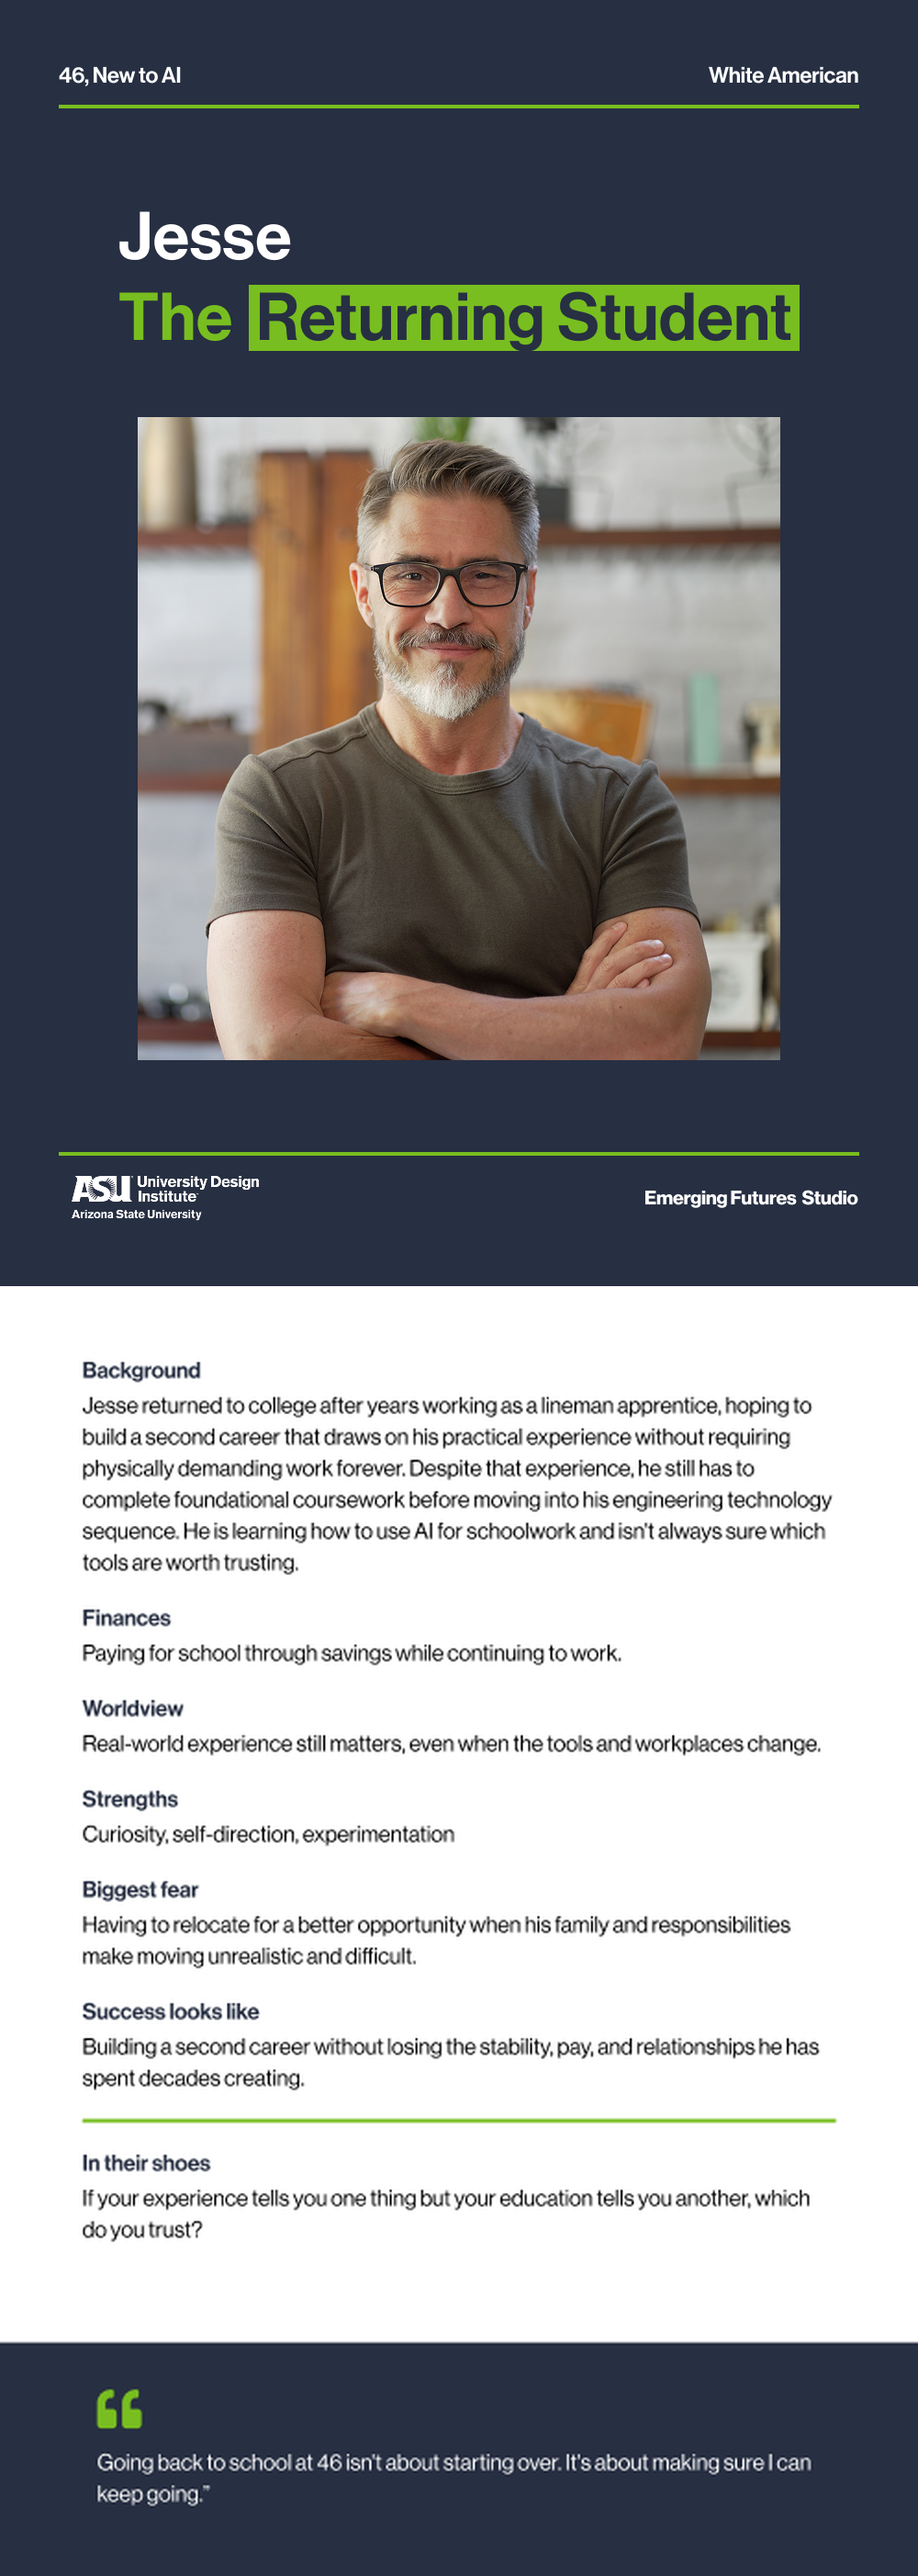
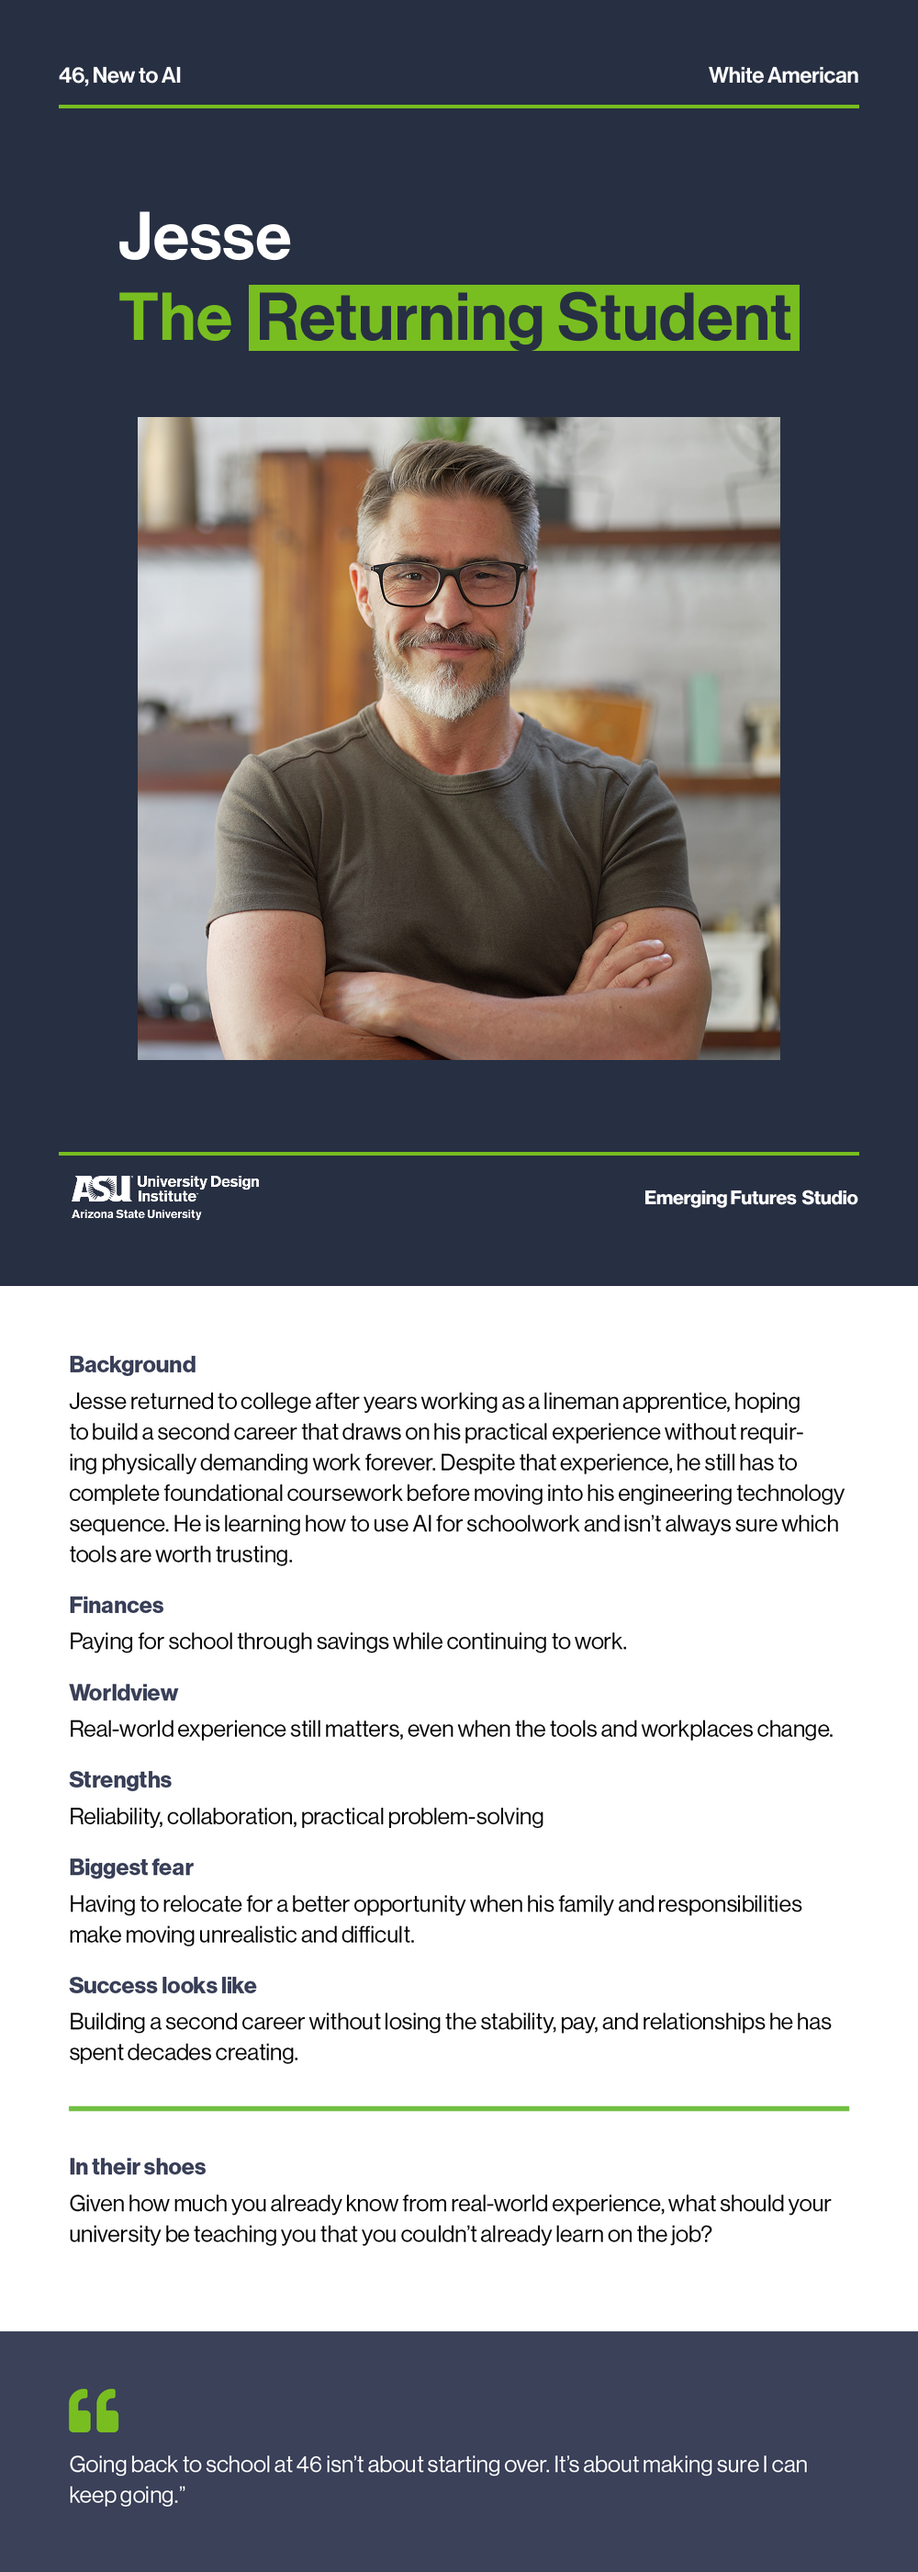
jesse persona updates

diff --git a/src/pages/BigIdeaPage.tsx b/src/pages/BigIdeaPage.tsx
@@ -1,7 +1,8 @@
-import { useEffect, useRef, type ReactNode } from 'react'
+import { Suspense, lazy, useCallback, useEffect, useRef, useState, type ReactNode } from 'react'
 import { Link, NavLink, useParams } from 'react-router-dom'
 import CroppedImage from '../components/CroppedImage'
 import SectionNav from '../components/SectionNav'
+const PersonaPopup = lazy(() => import('../four-futures/components/PersonaPopup'))
 import { BIG_IDEAS, type BigIdeaDetail, type InfoCard, type Persona } from '../content/bigIdeas'
 
 const SECTIONS = [
@@ -55,7 +56,7 @@ function IdeaTabs({ activeSlug }: { activeSlug: string }) {
 
 function Section({ id, title, children }: { id: SectionId; title: ReactNode; children: ReactNode }) {
   return (
-    <section id={id} className="flex scroll-mt-8 flex-col gap-6">
+    <section id={id} className="flex scroll-mt-[108px] flex-col gap-6 sm:scroll-mt-[132px]">
       <h2 className="type-h2 max-w-[750px]">{title}</h2>
       {children}
     </section>
@@ -77,7 +78,7 @@ function CardGrid({ cards, variant }: { cards: InfoCard[]; variant: 'filled' | '
   )
 }
 
-function PersonaStory({ persona, last }: { persona: Persona; last: boolean }) {
+function PersonaStory({ persona, last, onView }: { persona: Persona; last: boolean; onView: (name: string) => void }) {
   return (
     <article className={`flex flex-col gap-[22px] pt-6 ${last ? '' : 'border-b border-rule pb-8'}`}>
       <h3 className="type-h3">{persona.role}</h3>
@@ -94,9 +95,14 @@ function PersonaStory({ persona, last }: { persona: Persona; last: boolean }) {
             <span className="font-medium">{persona.name}</span> — {persona.descriptor}
           </p>
           {persona.personaHref && (
-            <a href={persona.personaHref} target="_blank" rel="noopener noreferrer" className="text-navy underline hover:no-underline">
-              View persona →<span className="sr-only"> for {persona.name} (opens in a new tab)</span>
-            </a>
+            <button
+              type="button"
+              onClick={() => onView(persona.name)}
+              aria-haspopup="dialog"
+              className="cursor-pointer self-start text-left text-navy underline hover:no-underline"
+            >
+              View persona →<span className="sr-only"> for {persona.name}</span>
+            </button>
           )}
         </div>
       </div>
@@ -105,8 +111,21 @@ function PersonaStory({ persona, last }: { persona: Persona; last: boolean }) {
 }
 
 function IdeaBody({ d }: { d: BigIdeaDetail }) {
+  // "View persona →" opens the Four Futures persona card as a pop-up on this page
+  const [openPersona, setOpenPersona] = useState<string | null>(null)
+  const [popupLoaded, setPopupLoaded] = useState(false) // stays mounted after first use so closing can animate
+  const closePersona = useCallback(() => setOpenPersona(null), [])
+  const viewPersona = (name: string) => {
+    setPopupLoaded(true)
+    setOpenPersona(name)
+  }
   return (
     <div className="flex min-w-0 flex-col gap-14 lg:gap-[72px]">
+      {popupLoaded && (
+        <Suspense fallback={null}>
+          <PersonaPopup name={openPersona} onClose={closePersona} />
+        </Suspense>
+      )}
       <Section id="at-a-glance" title="At a glance">
         <div className="type-body grid grid-cols-1 gap-7 sm:grid-cols-2">
           <div className="flex flex-col gap-2.5">
@@ -163,7 +182,7 @@ function IdeaBody({ d }: { d: BigIdeaDetail }) {
         <p className="type-small border-l-2 border-note-rule px-2 leading-[1.5] text-quiet italic">{d.dayInTheFuture.note}</p>
         <div className="flex flex-col gap-6">
           {d.dayInTheFuture.personas.map((p, i, all) => (
-            <PersonaStory key={p.name} persona={p} last={i === all.length - 1} />
+            <PersonaStory key={p.name} persona={p} last={i === all.length - 1} onView={viewPersona} />
           ))}
         </div>
       </Section>

diff --git a/src/components/SiteHeader.tsx b/src/components/SiteHeader.tsx
@@ -7,23 +7,24 @@ type NavItem = { to: string; label: string; end?: boolean; external?: boolean }
 
 const NAV: NavItem[] = [
   { to: '/', label: 'Big Ideas', end: true },
-  // The Four Futures section opens in a new tab
-  { to: FOUR_FUTURES_URL, label: 'The Four Futures', external: true },
   { to: '/about', label: 'About' },
+  // The Four Futures section opens in a new tab (Figma 253:1302: last, with an "opens outside" icon)
+  { to: FOUR_FUTURES_URL, label: 'The Four Futures', external: true },
 ]
 
 /** Router link, or a plain new-tab link for items marked external. */
 function NavItemLink({ item, className }: { item: NavItem; className: (isActive: boolean) => string }) {
   if (item.external) {
     return (
-      <a href={item.to} target="_blank" rel="noopener noreferrer" className={className(false)}>
+      <a href={item.to} target="_blank" rel="noopener noreferrer" className={`${className(false)} items-start gap-2`}>
         {item.label}
+        <img src="/images/arrow-square-out.svg" alt="" width={18} height={18} className="size-[18px] shrink-0" />
         <span className="sr-only"> (opens in a new tab)</span>
       </a>
     )
   }
   return (
-    <NavLink to={item.to} end={item.end} className={({ isActive }) => className(isActive)}>
+    <NavLink to={item.to} end={item.end} className={({ isActive }) => `${className(isActive)} items-center`}>
       {item.label}
     </NavLink>
   )
@@ -37,7 +38,7 @@ export default function SiteHeader() {
   const setOpen = (fn: (v: boolean) => boolean) => setOpenOn(fn(open) ? pathname : null)
 
   return (
-    <header className="bg-navy text-white">
+    <header className="sticky top-0 z-50 bg-navy text-white">
       <div className="container-wide flex h-[76px] items-center justify-between sm:h-[100px]">
         <Link to="/" className="flex items-center gap-4" aria-label="Emerging Futures Studio home">
           <Logo className="w-[150px] sm:w-[190.313px]" />
@@ -53,7 +54,7 @@ export default function SiteHeader() {
               key={item.to}
               item={item}
               className={(isActive) =>
-                `flex h-[26px] items-center border-b-[1.5px] pb-[6px] text-[18px] leading-[1.1] whitespace-nowrap transition-colors ${
+                `flex h-[26px] border-b-[1.5px] pb-[6px] text-[18px] leading-[1.1] whitespace-nowrap transition-colors ${
                   isActive ? 'border-accent-blue' : 'border-transparent hover:border-white/50'
                 }`
               }
@@ -84,7 +85,7 @@ export default function SiteHeader() {
                 <NavItemLink
                   item={item}
                   className={(isActive) =>
-                    `block border-l-2 py-3 pl-3 text-[18px] leading-[1.1] ${isActive ? 'border-accent-blue' : 'border-transparent'}`
+                    `flex border-l-2 py-3 pl-3 text-[18px] leading-[1.1] ${isActive ? 'border-accent-blue' : 'border-transparent'}`
                   }
                 />
               </li>

diff --git a/src/four-futures/data/personas.ts b/src/four-futures/data/personas.ts
@@ -56,7 +56,7 @@ export const personas: Persona[] = [
       "Jesse returned to college after years working as a lineman apprentice, hoping to build a second career that draws on his practical experience without requiring physically demanding work forever. Despite that experience, he still has to complete foundational coursework before moving into his engineering technology sequence. He is learning how to use AI for schoolwork and isn't always sure which tools are worth trusting.",
     finances: "Paying for school through savings while continuing to work.",
     worldview: "Real-world experience still matters, even when the tools and workplaces change.",
-    strengths: ["Curiosity", "self-direction", "experimentation"],
+    strengths: ["Reliability", "collaboration", "practical problem-solving"],
     biggestFear:
       "Having to relocate for a better opportunity when his family and responsibilities make moving unrealistic and difficult.",
     successLooksLike:

diff --git a/src/four-futures/components/PersonaPopup.tsx b/src/four-futures/components/PersonaPopup.tsx
@@ -1,0 +1,12 @@
+import { personas } from "../data/personas";
+import { PersonaModal } from "./PersonaModal";
+
+/**
+ * The Four Futures persona card pop-up, looked up by name, for use outside /four-futures
+ * (the "View persona →" links in a big idea's "A day in this future" section).
+ * Loaded lazily so the main pages don't carry the pop-up's animation library until needed.
+ */
+export default function PersonaPopup({ name, onClose }: { name: string | null; onClose: () => void }) {
+  const persona = personas.find((p) => p.name === name) ?? null;
+  return <PersonaModal persona={persona} onClose={onClose} />;
+}

diff --git a/src/components/SectionNav.tsx b/src/components/SectionNav.tsx
@@ -18,7 +18,7 @@ export default function SectionNav({
   const { active, select } = useActiveSection(sections.map((s) => s.id))
 
   return (
-    <nav aria-label={ariaLabel} className="sticky top-8 flex flex-col gap-3.5">
+    <nav aria-label={ariaLabel} className="sticky top-[132px] flex flex-col gap-3.5">
       {label && <p className="text-[15px] leading-[1.5] font-medium tracking-[0.06em] text-muted uppercase">{label}</p>}
       <ul className="flex flex-col gap-1.5">
         {sections.map((s) => {

diff --git a/src/pages/AboutPage.tsx b/src/pages/AboutPage.tsx
@@ -12,7 +12,7 @@ const SECTIONS = [
 
 function Section({ id, title, children }: { id: string; title: string; children: ReactNode }) {
   return (
-    <section id={id} className="flex scroll-mt-8 flex-col gap-6">
+    <section id={id} className="flex scroll-mt-[108px] flex-col gap-6 sm:scroll-mt-[132px]">
       <h2 className="type-h2 max-w-[750px]">{title}</h2>
       {children}
     </section>
